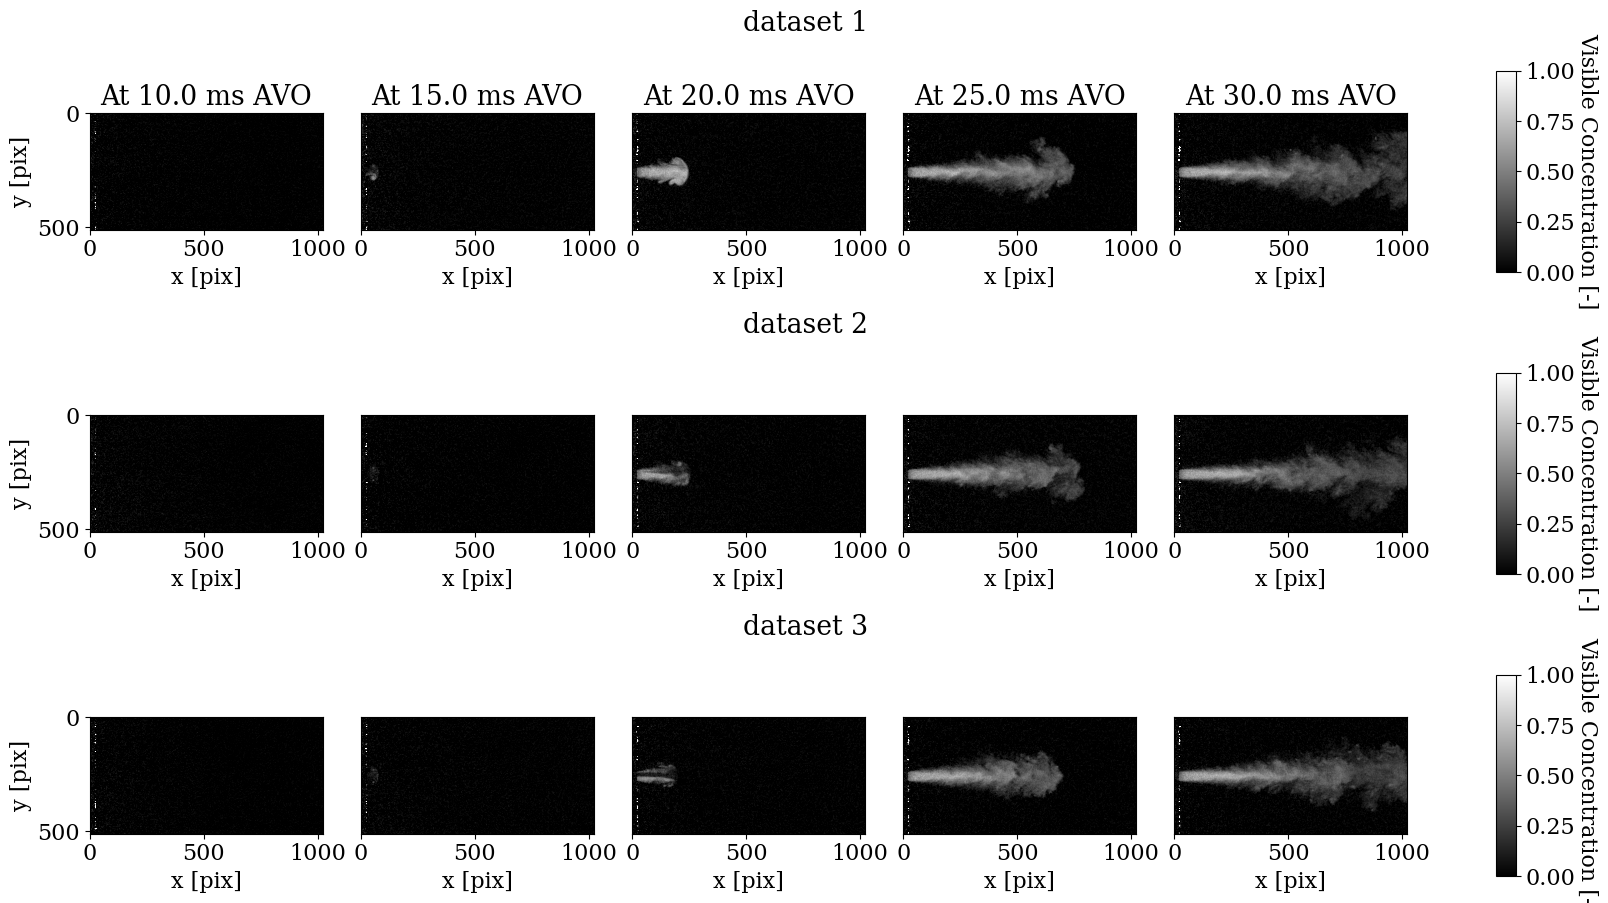
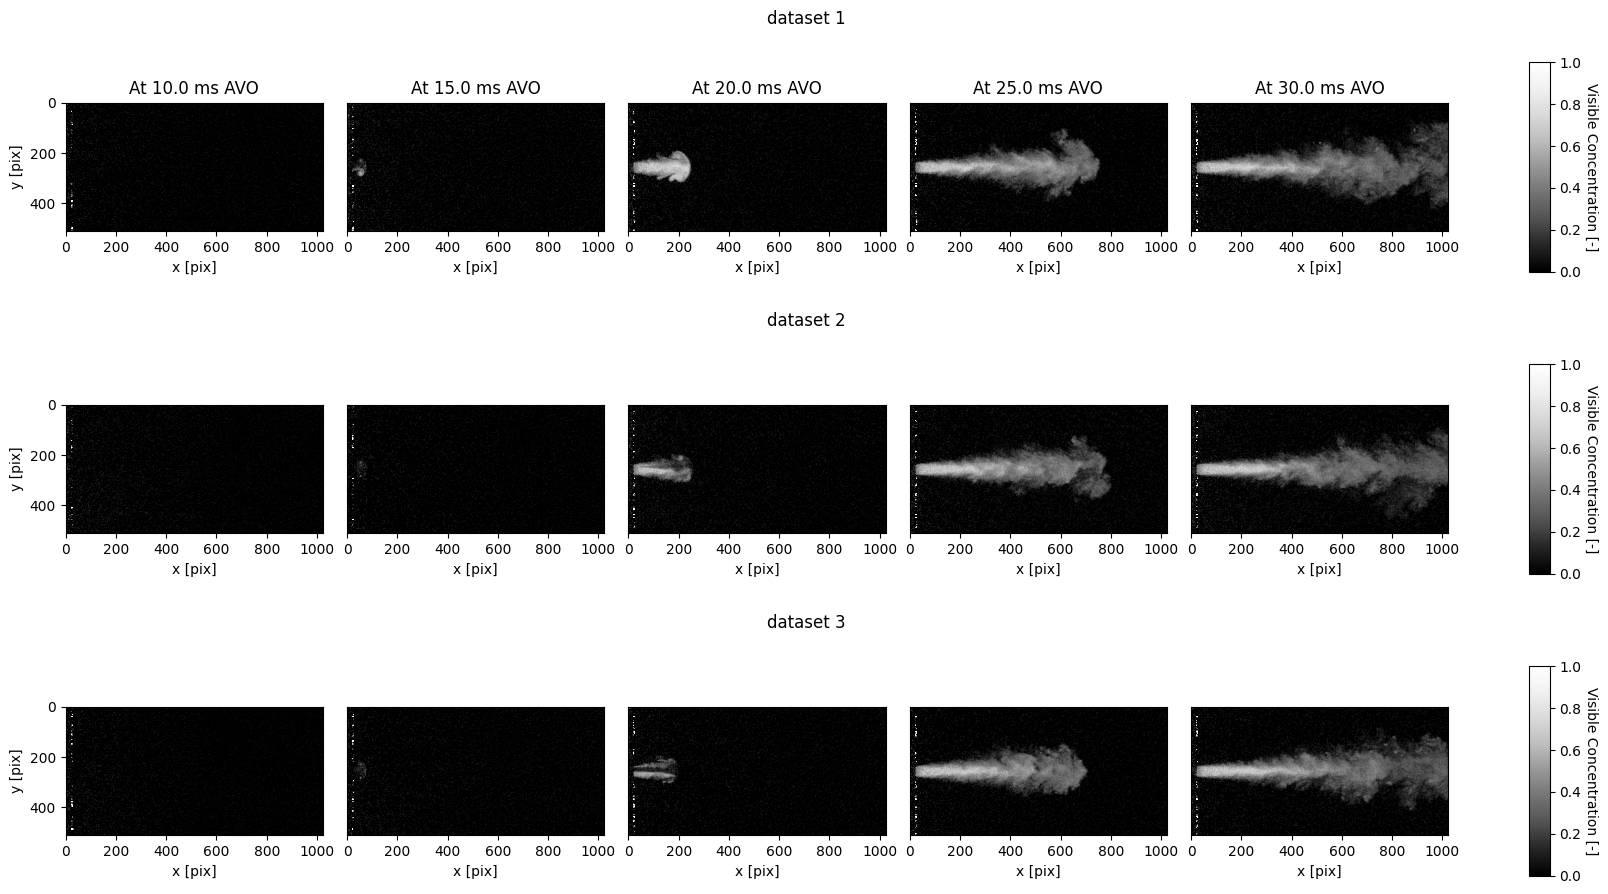
UPDATE: examples to work with more than Pycharm IDE... ffs

diff --git a/example/pimged_example.py b/example/pimged_example.py
@@ -4,9 +4,6 @@ import matplotlib.pyplot as plt
 import numpy as np
 import pimged as pg
 
-import matplotlib
-matplotlib.use('TkAgg', force=True)
-
 if __name__ == '__main__':
     # Setting file extension names
     extranameprefix = os.path.join('data', 'data')
@@ -206,7 +203,7 @@ if __name__ == '__main__':
         # create subplots per subfig
         axs = subfig.subplots(nrows=1, ncols=5)
         for col, ax in enumerate(axs):
-            im = ax.imshow(data[:, :, col, 0], cmap='grey')
+            im = ax.imshow(data[:, :, col, 0], cmap='Greys_r')
             ax.set_xlabel('x [pix]')
             if col != 0:
                 ax.set_yticks([])
@@ -264,7 +261,7 @@ if __name__ == '__main__':
         # create subplots per subfig
         axs = subfig.subplots(nrows=1, ncols=5)
         for col, ax in enumerate(axs):
-            im = ax.imshow(data[:, :, col], cmap='grey', vmin=0, vmax=vmaxset)
+            im = ax.imshow(data[:, :, col], cmap='Greys_r', vmin=0, vmax=vmaxset)
             ax.set_xlabel('x [pix]')
             if col != 0:
                 ax.set_yticks([])

diff --git a/example/pimged_big_data_example.py b/example/pimged_big_data_example.py
@@ -4,14 +4,6 @@ import matplotlib.pyplot as plt
 import numpy as np
 import pimged as pg
 
-import matplotlib
-matplotlib.use('TkAgg', force=True)
-
-plt.rc('text', usetex=False)
-plt.rc('font', family='serif', size=16)
-plt.rc('xtick', labelsize=16)
-plt.rc('ytick', labelsize=16)
-
 if __name__ == '__main__':
     # Setting file extension names
     extranameprefix = os.path.join('data', 'data')
@@ -209,7 +201,7 @@ if __name__ == '__main__':
         # create subplots per subfig
         axs = subfig.subplots(nrows=1, ncols=5)
         for col, ax in enumerate(axs):
-            im = ax.imshow(data[:, :, nimgconc[col]-100, row], vmin=0, vmax=1, cmap='grey')
+            im = ax.imshow(data[:, :, nimgconc[col]-100, row], vmin=0, vmax=1, cmap='Greys_r')
             ax.set_xlabel('x [pix]')
             if col != 0:
                 ax.set_yticks([])

diff --git a/example/pimged_pod_example.py b/example/pimged_pod_example.py
@@ -4,14 +4,6 @@ import matplotlib.pyplot as plt
 import numpy as np
 import pimged as pg
 
-import matplotlib
-matplotlib.use('TkAgg', force=True)
-
-plt.rc('text', usetex=False)
-plt.rc('font', family='serif', size=16)
-plt.rc('xtick', labelsize=16)
-plt.rc('ytick', labelsize=16)
-
 if __name__ == '__main__':
     # Setting file extension names
     extranameprefix = os.path.join('data', 'data')
@@ -110,7 +102,7 @@ if __name__ == '__main__':
 
     # Plot pressures
     fig, ax = plt.subplots(figsize=(13, 6))
-    imsh = ax.imshow(modeL[:, :, 130, mode_to_plot - 1], vmin=-1.0e-3, vmax=1.0e-3)
+    imsh = ax.imshow(modeL[:, :, 130, mode_to_plot - 1], vmin=-1.0e-3, vmax=1.0e-3, cmap='Greys_r')
     ax.set_xlabel(r'x [pix]')
     ax.set_ylabel(r'y [pix]')
 
